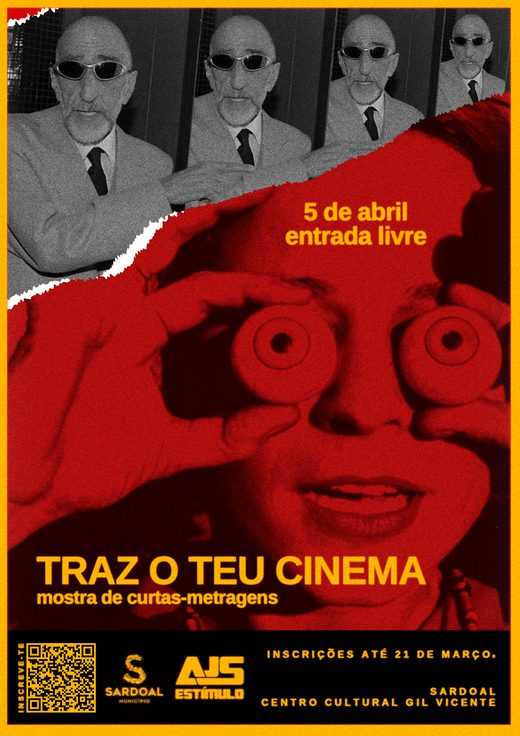
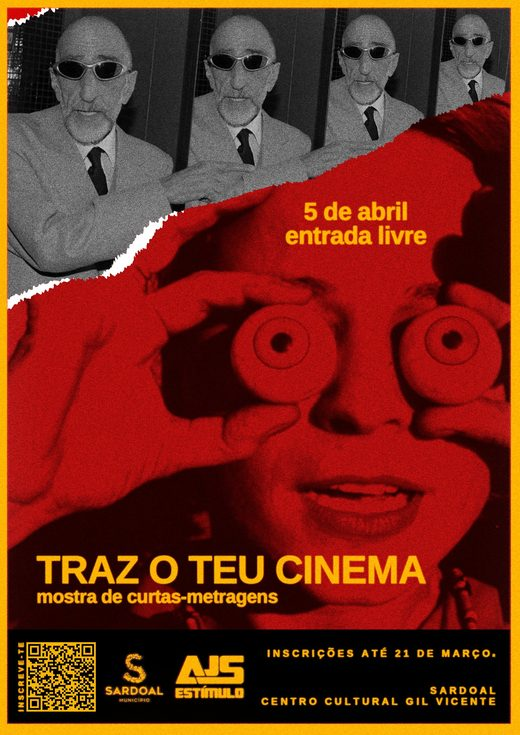
Cartazes: miniaturas em A4 numa grelha regular; originais no ecrã inteiro

diff --git a/en/05-cartazes.html b/en/05-cartazes.html
@@ -28,7 +28,7 @@
       <div class="chap-head"><span class="chap-num">05</span><h2 class="chap-name">POSTERS</h2></div>
       <div class="sec-block" id="a">
         <div class="sec-code">05.1 / GALLERY</div>
-        <div class="shots posters"><button type="button" class="shot" data-full="../images/cartazes/01.jpg" aria-label="Open poster B4"><img src="../images/cartazes/01-t.jpg" alt="Poster B4" width="520" height="736" loading="lazy"></button><button type="button" class="shot" data-full="../images/cartazes/02.jpg" aria-label="Open poster Desconsoada"><img src="../images/cartazes/02-t.jpg" alt="Poster Desconsoada" width="520" height="735" loading="lazy"></button><button type="button" class="shot" data-full="../images/cartazes/03.jpg" aria-label="Open poster Seja Como For"><img src="../images/cartazes/03-t.jpg" alt="Poster Seja Como For" width="520" height="736" loading="lazy"></button><button type="button" class="shot" data-full="../images/cartazes/04.jpg" aria-label="Open poster Nice Voyage"><img src="../images/cartazes/04-t.jpg" alt="Poster Nice Voyage" width="520" height="693" loading="lazy"></button><button type="button" class="shot" data-full="../images/cartazes/05.jpg" aria-label="Open poster Lumen"><img src="../images/cartazes/05-t.jpg" alt="Poster Lumen" width="520" height="735" loading="lazy"></button><button type="button" class="shot" data-full="../images/cartazes/06.jpg" aria-label="Open poster Traditional Tile Workshop"><img src="../images/cartazes/06-t.jpg" alt="Poster Traditional Tile Workshop" width="520" height="650" loading="lazy"></button><button type="button" class="shot" data-full="../images/cartazes/07.jpg" aria-label="Open poster Traz o Teu Cinema"><img src="../images/cartazes/07-t.jpg" alt="Poster Traz o Teu Cinema" width="520" height="736" loading="lazy"></button><button type="button" class="shot" data-full="../images/cartazes/08.jpg" aria-label="Open poster Eurodance DJ set"><img src="../images/cartazes/08-t.jpg" alt="Poster Eurodance DJ set" width="520" height="694" loading="lazy"></button><button type="button" class="shot" data-full="../images/cartazes/09.jpg" aria-label="Open poster Lumen 2"><img src="../images/cartazes/09-t.jpg" alt="Poster Lumen 2" width="520" height="736" loading="lazy"></button><button type="button" class="shot" data-full="../images/cartazes/10.jpg" aria-label="Open poster Youth Day"><img src="../images/cartazes/10-t.jpg" alt="Poster Youth Day" width="520" height="736" loading="lazy"></button><button type="button" class="shot" data-full="../images/cartazes/11.jpg" aria-label="Open poster Carnaval Party"><img src="../images/cartazes/11-t.jpg" alt="Poster Carnaval Party" width="520" height="736" loading="lazy"></button><button type="button" class="shot" data-full="../images/cartazes/12.jpg" aria-label="Open poster Traz o Teu Cinema, 2nd edition"><img src="../images/cartazes/12-t.jpg" alt="Poster Traz o Teu Cinema, 2nd edition" width="520" height="735" loading="lazy"></button><button type="button" class="shot" data-full="../images/cartazes/13.jpg" aria-label="Open poster AJS — Sardoal Youth Association"><img src="../images/cartazes/13-t.jpg" alt="Poster AJS — Sardoal Youth Association" width="520" height="650" loading="lazy"></button></div>
+        <div class="shots posters"><button type="button" class="shot" data-full="../images/cartazes/01.jpg" aria-label="Open poster B4"><img src="../images/cartazes/01-t.jpg" alt="Poster B4" width="520" height="735" loading="lazy"></button><button type="button" class="shot" data-full="../images/cartazes/02.jpg" aria-label="Open poster Desconsoada"><img src="../images/cartazes/02-t.jpg" alt="Poster Desconsoada" width="520" height="735" loading="lazy"></button><button type="button" class="shot" data-full="../images/cartazes/03.jpg" aria-label="Open poster Seja Como For"><img src="../images/cartazes/03-t.jpg" alt="Poster Seja Como For" width="520" height="735" loading="lazy"></button><button type="button" class="shot" data-full="../images/cartazes/04.jpg" aria-label="Open poster Nice Voyage"><img src="../images/cartazes/04-t.jpg" alt="Poster Nice Voyage" width="520" height="735" loading="lazy"></button><button type="button" class="shot" data-full="../images/cartazes/05.jpg" aria-label="Open poster Lumen"><img src="../images/cartazes/05-t.jpg" alt="Poster Lumen" width="520" height="735" loading="lazy"></button><button type="button" class="shot" data-full="../images/cartazes/06.jpg" aria-label="Open poster Traditional Tile Workshop"><img src="../images/cartazes/06-t.jpg" alt="Poster Traditional Tile Workshop" width="520" height="735" loading="lazy"></button><button type="button" class="shot" data-full="../images/cartazes/07.jpg" aria-label="Open poster Traz o Teu Cinema"><img src="../images/cartazes/07-t.jpg" alt="Poster Traz o Teu Cinema" width="520" height="735" loading="lazy"></button><button type="button" class="shot" data-full="../images/cartazes/08.jpg" aria-label="Open poster Eurodance DJ set"><img src="../images/cartazes/08-t.jpg" alt="Poster Eurodance DJ set" width="520" height="735" loading="lazy"></button><button type="button" class="shot" data-full="../images/cartazes/09.jpg" aria-label="Open poster Lumen 2"><img src="../images/cartazes/09-t.jpg" alt="Poster Lumen 2" width="520" height="735" loading="lazy"></button><button type="button" class="shot" data-full="../images/cartazes/10.jpg" aria-label="Open poster Youth Day"><img src="../images/cartazes/10-t.jpg" alt="Poster Youth Day" width="520" height="735" loading="lazy"></button><button type="button" class="shot" data-full="../images/cartazes/11.jpg" aria-label="Open poster Carnaval Party"><img src="../images/cartazes/11-t.jpg" alt="Poster Carnaval Party" width="520" height="735" loading="lazy"></button><button type="button" class="shot" data-full="../images/cartazes/12.jpg" aria-label="Open poster Traz o Teu Cinema, 2nd edition"><img src="../images/cartazes/12-t.jpg" alt="Poster Traz o Teu Cinema, 2nd edition" width="520" height="735" loading="lazy"></button><button type="button" class="shot" data-full="../images/cartazes/13.jpg" aria-label="Open poster AJS — Sardoal Youth Association"><img src="../images/cartazes/13-t.jpg" alt="Poster AJS — Sardoal Youth Association" width="520" height="735" loading="lazy"></button></div>
       </div>
     </div>
     <div class="pageflip">

diff --git a/05-cartazes.html b/05-cartazes.html
@@ -28,7 +28,7 @@
       <div class="chap-head"><span class="chap-num">05</span><h2 class="chap-name">CARTAZES</h2></div>
       <div class="sec-block" id="a">
         <div class="sec-code">05.1 / GALERIA</div>
-        <div class="shots posters"><button type="button" class="shot" data-full="images/cartazes/01.jpg" aria-label="Abrir cartaz B4"><img src="images/cartazes/01-t.jpg" alt="Cartaz B4" width="520" height="736" loading="lazy"></button><button type="button" class="shot" data-full="images/cartazes/02.jpg" aria-label="Abrir cartaz Desconsoada"><img src="images/cartazes/02-t.jpg" alt="Cartaz Desconsoada" width="520" height="735" loading="lazy"></button><button type="button" class="shot" data-full="images/cartazes/03.jpg" aria-label="Abrir cartaz Seja Como For"><img src="images/cartazes/03-t.jpg" alt="Cartaz Seja Como For" width="520" height="736" loading="lazy"></button><button type="button" class="shot" data-full="images/cartazes/04.jpg" aria-label="Abrir cartaz Nice Voyage"><img src="images/cartazes/04-t.jpg" alt="Cartaz Nice Voyage" width="520" height="693" loading="lazy"></button><button type="button" class="shot" data-full="images/cartazes/05.jpg" aria-label="Abrir cartaz Lumen"><img src="images/cartazes/05-t.jpg" alt="Cartaz Lumen" width="520" height="735" loading="lazy"></button><button type="button" class="shot" data-full="images/cartazes/06.jpg" aria-label="Abrir cartaz Workshop Azulejo Tradicional"><img src="images/cartazes/06-t.jpg" alt="Cartaz Workshop Azulejo Tradicional" width="520" height="650" loading="lazy"></button><button type="button" class="shot" data-full="images/cartazes/07.jpg" aria-label="Abrir cartaz Traz o Teu Cinema"><img src="images/cartazes/07-t.jpg" alt="Cartaz Traz o Teu Cinema" width="520" height="736" loading="lazy"></button><button type="button" class="shot" data-full="images/cartazes/08.jpg" aria-label="Abrir cartaz Eurodance DJ set"><img src="images/cartazes/08-t.jpg" alt="Cartaz Eurodance DJ set" width="520" height="694" loading="lazy"></button><button type="button" class="shot" data-full="images/cartazes/09.jpg" aria-label="Abrir cartaz Lumen 2"><img src="images/cartazes/09-t.jpg" alt="Cartaz Lumen 2" width="520" height="736" loading="lazy"></button><button type="button" class="shot" data-full="images/cartazes/10.jpg" aria-label="Abrir cartaz Dia da Juventude"><img src="images/cartazes/10-t.jpg" alt="Cartaz Dia da Juventude" width="520" height="736" loading="lazy"></button><button type="button" class="shot" data-full="images/cartazes/11.jpg" aria-label="Abrir cartaz Carnaval Party"><img src="images/cartazes/11-t.jpg" alt="Cartaz Carnaval Party" width="520" height="736" loading="lazy"></button><button type="button" class="shot" data-full="images/cartazes/12.jpg" aria-label="Abrir cartaz Traz o Teu Cinema, II edição"><img src="images/cartazes/12-t.jpg" alt="Cartaz Traz o Teu Cinema, II edição" width="520" height="735" loading="lazy"></button><button type="button" class="shot" data-full="images/cartazes/13.jpg" aria-label="Abrir cartaz AJS — Associação de Jovens do Sardoal"><img src="images/cartazes/13-t.jpg" alt="Cartaz AJS — Associação de Jovens do Sardoal" width="520" height="650" loading="lazy"></button></div>
+        <div class="shots posters"><button type="button" class="shot" data-full="images/cartazes/01.jpg" aria-label="Abrir cartaz B4"><img src="images/cartazes/01-t.jpg" alt="Cartaz B4" width="520" height="735" loading="lazy"></button><button type="button" class="shot" data-full="images/cartazes/02.jpg" aria-label="Abrir cartaz Desconsoada"><img src="images/cartazes/02-t.jpg" alt="Cartaz Desconsoada" width="520" height="735" loading="lazy"></button><button type="button" class="shot" data-full="images/cartazes/03.jpg" aria-label="Abrir cartaz Seja Como For"><img src="images/cartazes/03-t.jpg" alt="Cartaz Seja Como For" width="520" height="735" loading="lazy"></button><button type="button" class="shot" data-full="images/cartazes/04.jpg" aria-label="Abrir cartaz Nice Voyage"><img src="images/cartazes/04-t.jpg" alt="Cartaz Nice Voyage" width="520" height="735" loading="lazy"></button><button type="button" class="shot" data-full="images/cartazes/05.jpg" aria-label="Abrir cartaz Lumen"><img src="images/cartazes/05-t.jpg" alt="Cartaz Lumen" width="520" height="735" loading="lazy"></button><button type="button" class="shot" data-full="images/cartazes/06.jpg" aria-label="Abrir cartaz Workshop Azulejo Tradicional"><img src="images/cartazes/06-t.jpg" alt="Cartaz Workshop Azulejo Tradicional" width="520" height="735" loading="lazy"></button><button type="button" class="shot" data-full="images/cartazes/07.jpg" aria-label="Abrir cartaz Traz o Teu Cinema"><img src="images/cartazes/07-t.jpg" alt="Cartaz Traz o Teu Cinema" width="520" height="735" loading="lazy"></button><button type="button" class="shot" data-full="images/cartazes/08.jpg" aria-label="Abrir cartaz Eurodance DJ set"><img src="images/cartazes/08-t.jpg" alt="Cartaz Eurodance DJ set" width="520" height="735" loading="lazy"></button><button type="button" class="shot" data-full="images/cartazes/09.jpg" aria-label="Abrir cartaz Lumen 2"><img src="images/cartazes/09-t.jpg" alt="Cartaz Lumen 2" width="520" height="735" loading="lazy"></button><button type="button" class="shot" data-full="images/cartazes/10.jpg" aria-label="Abrir cartaz Dia da Juventude"><img src="images/cartazes/10-t.jpg" alt="Cartaz Dia da Juventude" width="520" height="735" loading="lazy"></button><button type="button" class="shot" data-full="images/cartazes/11.jpg" aria-label="Abrir cartaz Carnaval Party"><img src="images/cartazes/11-t.jpg" alt="Cartaz Carnaval Party" width="520" height="735" loading="lazy"></button><button type="button" class="shot" data-full="images/cartazes/12.jpg" aria-label="Abrir cartaz Traz o Teu Cinema, II edição"><img src="images/cartazes/12-t.jpg" alt="Cartaz Traz o Teu Cinema, II edição" width="520" height="735" loading="lazy"></button><button type="button" class="shot" data-full="images/cartazes/13.jpg" aria-label="Abrir cartaz AJS — Associação de Jovens do Sardoal"><img src="images/cartazes/13-t.jpg" alt="Cartaz AJS — Associação de Jovens do Sardoal" width="520" height="735" loading="lazy"></button></div>
       </div>
     </div>
     <div class="pageflip">

diff --git a/styles.css b/styles.css
@@ -154,7 +154,4 @@ body.lb-open{overflow:hidden}
 .lang a:hover{color:var(--red)}
 .lang-cover{position:absolute;top:24px;right:var(--margin);font-size:12px;letter-spacing:.1em;z-index:2}
 /* cartazes */
-.shots.posters{display:block;columns:4;column-gap:10px}
-.posters .shot{break-inside:avoid;margin-bottom:10px}
-@media(max-width:900px){.shots.posters{columns:3}}
-@media(max-width:560px){.shots.posters{columns:2}}
+.posters .shot img{aspect-ratio:1/1.4142;object-fit:cover}
